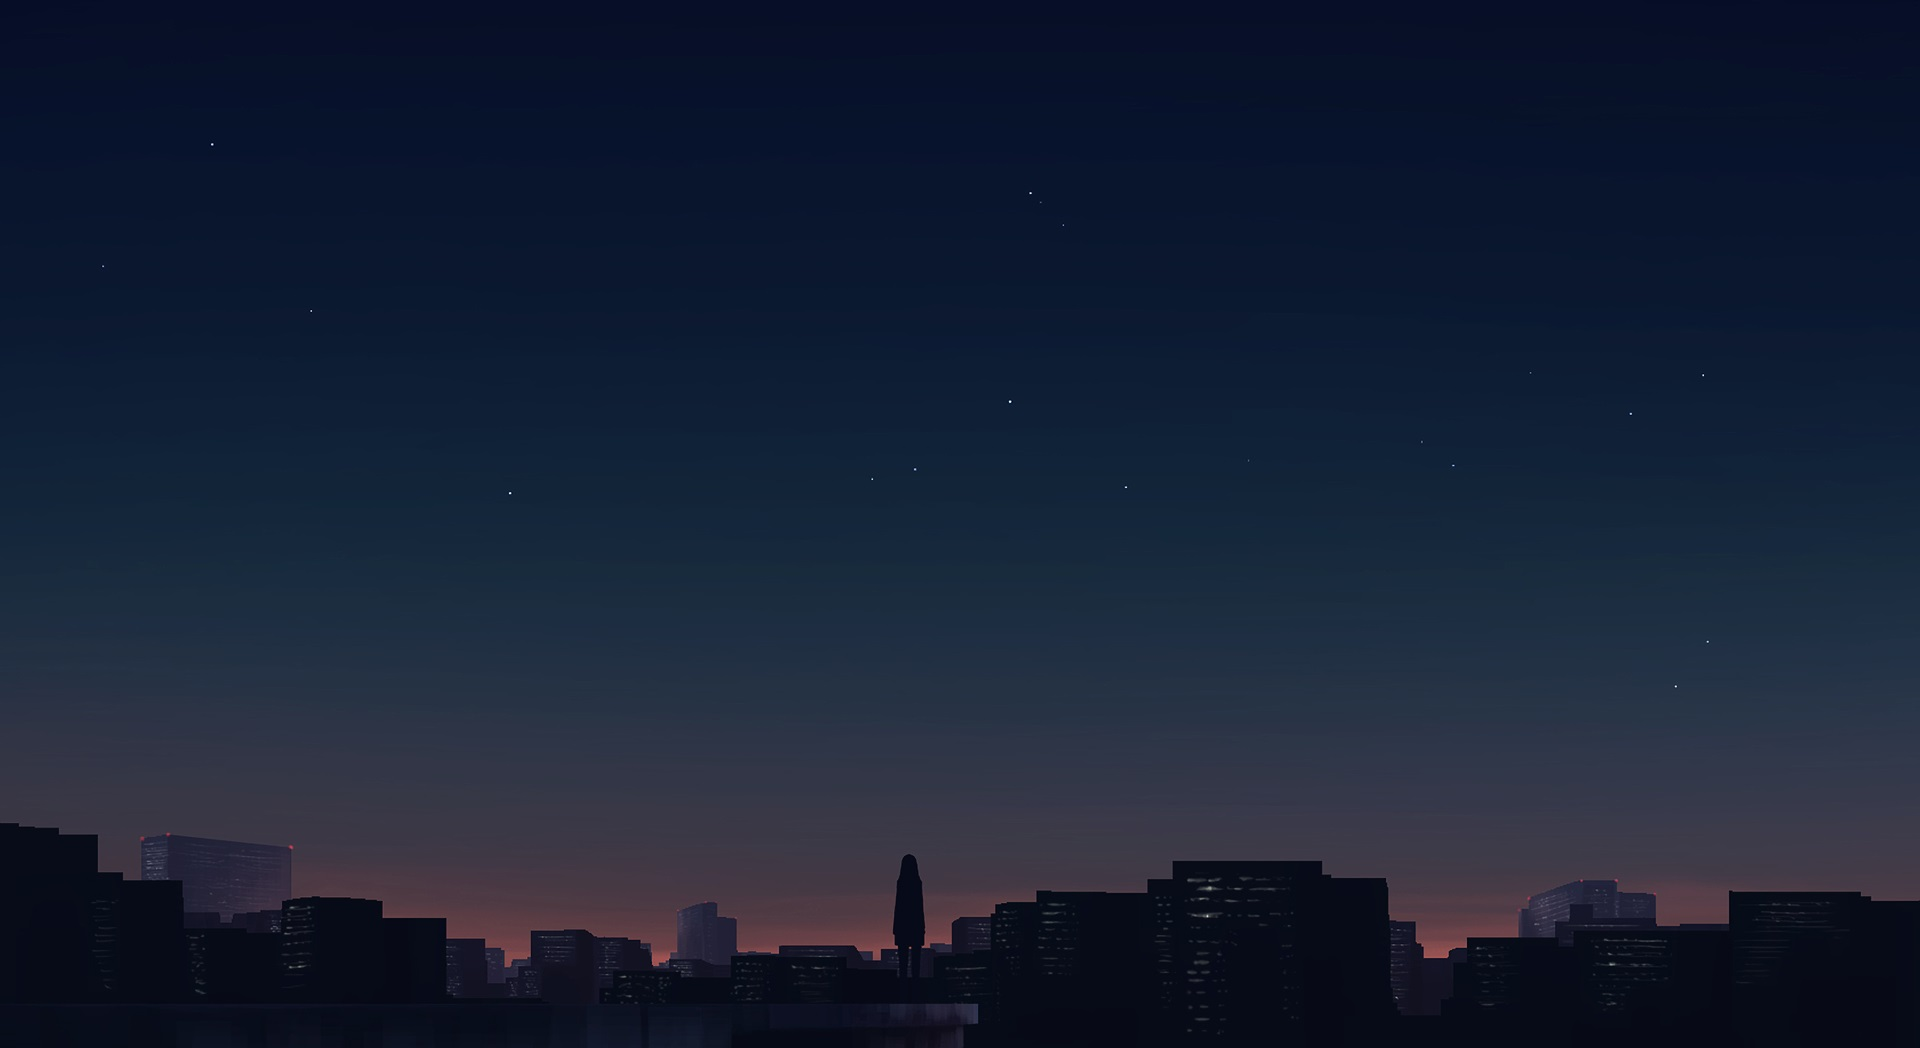
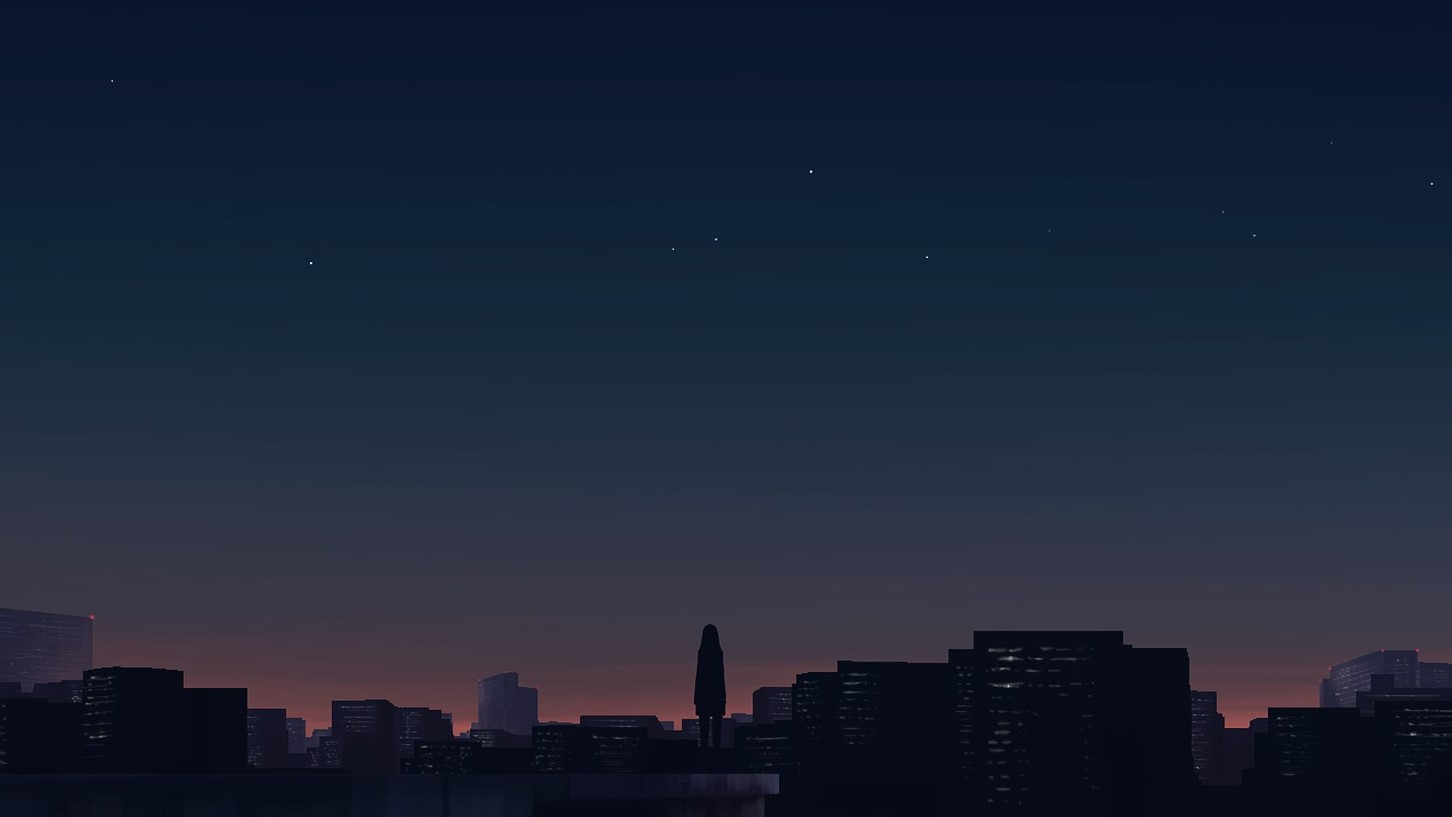
Site updated: 2019-05-05 02:29:03

Changed region(s): [[0.0, 0.765, 1.0, 0.9486], [0.4959, 0.9486, 0.5579, 1.0]]

diff --git a/js/src/dynamic_bg.js b/js/src/dynamic_bg.js
@@ -1,5 +1,5 @@
 "use strict"
-   
+
 document.addEventListener("DOMContentLoaded", function() {
     let paused = false
     let canvas = document.getElementById("galaxy")
@@ -15,7 +15,7 @@ document.addEventListener("DOMContentLoaded", function() {
 
     // Configuration
     let starRadius = 3
-    let starSpeed = 0.5
+    let starSpeed = 0.2
     let starCount = randomRange(100, 300)
     let starDirection = 145
 
@@ -108,6 +108,8 @@ document.addEventListener("DOMContentLoaded", function() {
     let update = () => {
         if (!paused) {
             ctx.clearRect(0, 0, width, height)
+
+            
 
             
 

diff --git a/css/main.css b/css/main.css
@@ -1828,7 +1828,7 @@ pre .javascript .function {
   width: 4px;
   height: 4px;
   border-radius: 50%;
-  background: #adff38;
+  background: #30ff90;
 }
 .links-of-blogroll {
   font-size: 13px;
@@ -3160,4 +3160,5 @@ body {
   z-index: -1;
   width: 100%;
   height: 100%;
+  opacity: 0.8;
 }
